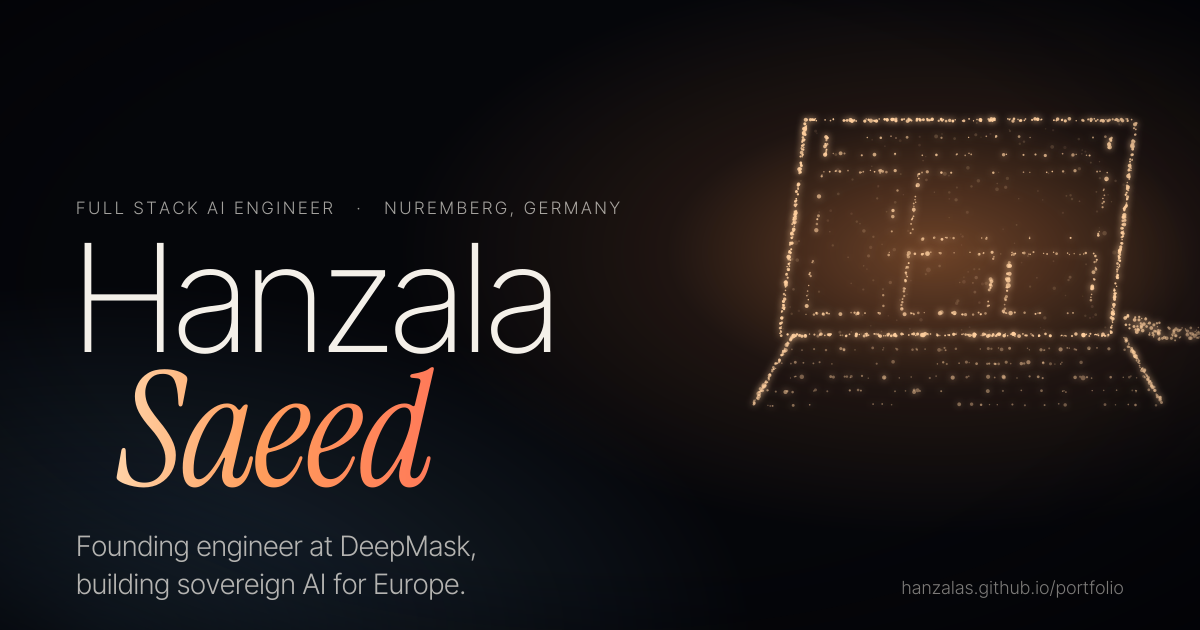
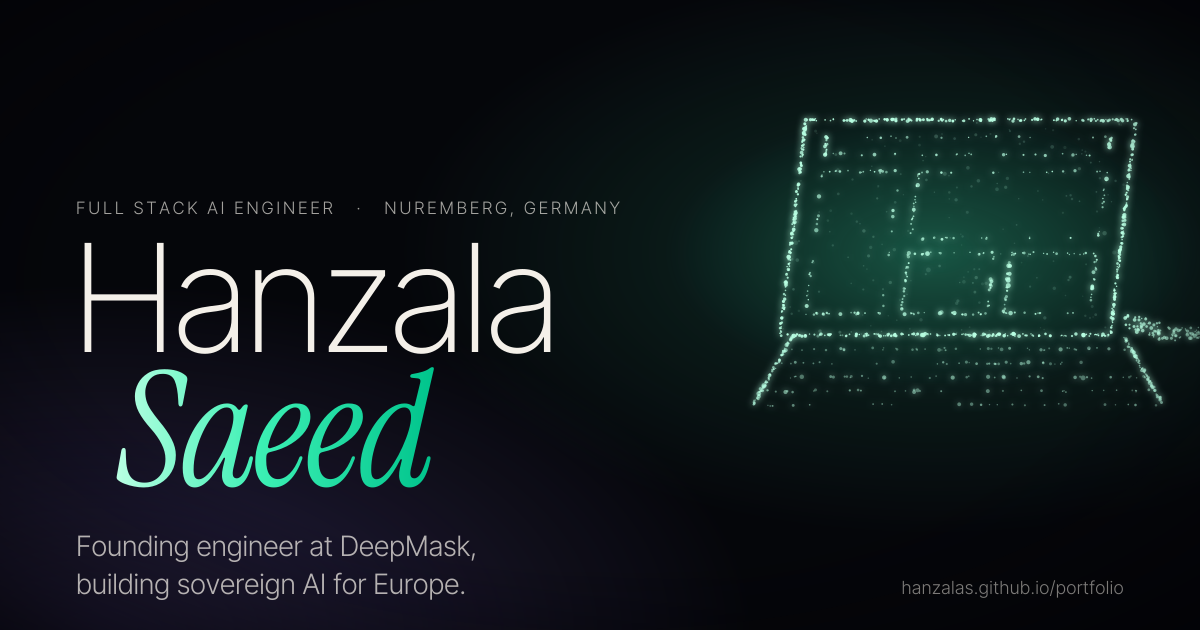
Rebrand to the Aurora palette
Move away from the warm amber-on-dark look to a palette of our own:
mint for the laptop's light and violet for the phone's.

- All colours now come from one palette in cinematic.css (--a-rgb,
  --a2-rgb, --a3, --b-rgb, --b2-rgb); the particle film reads its
  colours from the same variables, so the palette is defined once.
- New favicon and share image in the Aurora palette.
- Fix a self-referencing --a3 variable that broke the name gradient.

Changed region(s): [[0.555, 0.181, 1.0, 0.6333], [0.0925, 0.573, 0.37, 0.7841], [0.9558, 0.6032, 0.9867, 0.6333]]

diff --git a/src/styles/cinematic.css b/src/styles/cinematic.css
@@ -1,5 +1,5 @@
 /* Hanzala Saeed — cinematic site.
-   Dark film grade: amber is the laptop's light, blue is the phone's.
+   Dark film grade "Aurora": mint is the laptop's light, violet is the phone's.
    Everything readable works without JavaScript; motion is an enhancement. */
 
 :root {
@@ -10,10 +10,16 @@
   --faint: rgba(244, 240, 233, 0.5);
   --ghost: rgba(244, 240, 233, 0.16);
   --line: rgba(244, 240, 233, 0.12);
-  --warm: #ff9d5c;
-  --warm-2: #ffd2a6;
-  --cool: #7cc8ff;
-  --cool-2: #b9e3ff;
+  /* Brand palette "Aurora": light A (mint) is the laptop's, light B (violet) is the phone's. */
+  --a-rgb: 60, 240, 180;
+  --a2-rgb: 184, 255, 226;
+  --a3: #00c48c;
+  --b-rgb: 157, 123, 255;
+  --b2-rgb: 210, 196, 255;
+  --warm: rgb(var(--a-rgb));
+  --warm-2: rgb(var(--a2-rgb));
+  --cool: rgb(var(--b-rgb));
+  --cool-2: rgb(var(--b2-rgb));
   --ease: cubic-bezier(0.16, 1, 0.3, 1);
   --sans: 'Inter Tight Variable', ui-sans-serif, system-ui, -apple-system, 'Segoe UI', sans-serif;
   --serif: 'Instrument Serif', Georgia, 'Times New Roman', serif;
@@ -60,7 +66,7 @@ em,
 }
 
 ::selection {
-  background: rgba(255, 157, 92, 0.35);
+  background: rgba(var(--a-rgb), 0.35);
   color: #fff;
 }
 
@@ -121,9 +127,9 @@ em,
   opacity: 0;
   background: radial-gradient(
     closest-side,
-    rgba(var(--bc, 255, 150, 80), 0.55),
-    rgba(var(--bc, 255, 150, 80), 0.16) 42%,
-    rgba(var(--bc, 255, 150, 80), 0) 72%
+    rgba(var(--bc, var(--a-rgb)), 0.55),
+    rgba(var(--bc, var(--a-rgb)), 0.16) 42%,
+    rgba(var(--bc, var(--a-rgb)), 0) 72%
   );
   will-change: transform, opacity;
 }
@@ -165,7 +171,7 @@ em,
   width: 80vmax;
   height: 80vmax;
   border-radius: 50%;
-  background: radial-gradient(closest-side, rgba(255, 150, 80, 0.26), rgba(124, 200, 255, 0.08) 55%, transparent 72%);
+  background: radial-gradient(closest-side, rgba(var(--a-rgb), 0.26), rgba(var(--b-rgb), 0.08) 55%, transparent 72%);
   transition: opacity 1.4s var(--ease);
 }
 
@@ -181,7 +187,7 @@ em,
   line-height: 1;
   color: var(--warm);
   opacity: 0.5;
-  text-shadow: 0 0 60px rgba(255, 157, 92, 0.6);
+  text-shadow: 0 0 60px rgba(var(--a-rgb), 0.6);
 }
 
 html:not(.gl-on) .fb-hello {
@@ -227,7 +233,7 @@ html:not(.gl-on) .fb-hello {
   height: 8px;
   border-radius: 50%;
   background: var(--warm);
-  box-shadow: 0 0 12px 2px rgba(255, 157, 92, 0.8);
+  box-shadow: 0 0 12px 2px rgba(var(--a-rgb), 0.8);
   display: block;
 }
 
@@ -345,8 +351,8 @@ footer {
   width: 6px;
   height: 6px;
   border-radius: 50%;
-  background: #7dffb0;
-  box-shadow: 0 0 10px #7dffb0;
+  background: var(--warm);
+  box-shadow: 0 0 10px var(--warm);
 }
 
 h1 {
@@ -365,7 +371,7 @@ h1 .l2 {
   letter-spacing: -0.025em;
   font-size: 1.06em;
   padding-left: 0.38em;
-  background: linear-gradient(100deg, var(--warm-2) 0%, var(--warm) 45%, #ff7a59 100%);
+  background: linear-gradient(100deg, var(--warm-2) 0%, var(--warm) 45%, var(--a3) 100%);
   -webkit-background-clip: text;
   background-clip: text;
   color: transparent;
@@ -423,7 +429,7 @@ h1 .l2 {
   transform: translateY(-2px);
   border-color: rgba(244, 240, 233, 0.5);
   background: rgba(244, 240, 233, 0.06);
-  box-shadow: 0 14px 40px -14px rgba(255, 157, 92, 0.6);
+  box-shadow: 0 14px 40px -14px rgba(var(--a-rgb), 0.6);
 }
 
 .socials a:hover svg {
@@ -668,12 +674,12 @@ html:not(.gl-on) .hint {
 
 .gl-off.act-1 .fb-glow {
   transform: translate(-18vw, 8vh) scale(0.8);
-  background: radial-gradient(closest-side, rgba(200, 170, 255, 0.2), rgba(124, 200, 255, 0.08) 55%, transparent 72%);
+  background: radial-gradient(closest-side, rgba(var(--b2-rgb), 0.2), rgba(var(--b-rgb), 0.08) 55%, transparent 72%);
 }
 
 .gl-off.act-2 .fb-glow {
   transform: translate(-6vw, 4vh);
-  background: radial-gradient(closest-side, rgba(124, 200, 255, 0.3), rgba(255, 150, 80, 0.06) 55%, transparent 72%);
+  background: radial-gradient(closest-side, rgba(var(--b-rgb), 0.3), rgba(var(--a-rgb), 0.06) 55%, transparent 72%);
 }
 
 /* Without the script: the three acts simply read top to bottom. */
@@ -817,7 +823,7 @@ h2.label {
   isolation: isolate;
   aspect-ratio: 4 / 5;
   border: 1px solid var(--line);
-  box-shadow: 0 50px 120px -50px rgba(255, 140, 70, 0.55), 0 0 0 1px rgba(255, 210, 166, 0.06);
+  box-shadow: 0 50px 120px -50px rgba(var(--a-rgb), 0.55), 0 0 0 1px rgba(var(--a2-rgb), 0.06);
 }
 
 .portrait img {
@@ -837,8 +843,8 @@ h2.label {
   pointer-events: none;
   background:
     linear-gradient(to top, rgba(5, 6, 10, 0.85), rgba(5, 6, 10, 0) 45%),
-    radial-gradient(90% 60% at 85% 10%, rgba(255, 157, 92, 0.22), transparent 60%),
-    radial-gradient(80% 60% at 0% 100%, rgba(124, 200, 255, 0.16), transparent 60%);
+    radial-gradient(90% 60% at 85% 10%, rgba(var(--a-rgb), 0.22), transparent 60%),
+    radial-gradient(80% 60% at 0% 100%, rgba(var(--b-rgb), 0.16), transparent 60%);
   mix-blend-mode: normal;
 }
 
@@ -961,7 +967,7 @@ html:not(.has-js) .beliefs li em {
 .card:hover,
 .card.solve {
   border-color: rgba(244, 240, 233, 0.26);
-  box-shadow: 0 40px 120px -40px var(--sh, rgba(255, 140, 70, 0.45));
+  box-shadow: 0 40px 120px -40px var(--sh, rgba(var(--a-rgb), 0.45));
 }
 
 .card:hover::after {
@@ -969,7 +975,7 @@ html:not(.has-js) .beliefs li em {
 }
 
 .card.cool {
-  --sh: rgba(110, 190, 255, 0.45);
+  --sh: rgba(var(--b-rgb), 0.45);
 }
 
 .card .art {
@@ -986,7 +992,7 @@ html:not(.has-js) .beliefs li em {
   content: '';
   position: absolute;
   inset: -20%;
-  background: radial-gradient(closest-side, var(--ag, rgba(255, 140, 70, 0.2)), transparent 70%);
+  background: radial-gradient(closest-side, var(--ag, rgba(var(--a-rgb), 0.2)), transparent 70%);
   transition: transform 1.2s var(--ease), opacity 1s;
 }
 
@@ -996,7 +1002,7 @@ html:not(.has-js) .beliefs li em {
 }
 
 .card.cool .art {
-  --ag: rgba(90, 170, 255, 0.2);
+  --ag: rgba(var(--b-rgb), 0.2);
 }
 
 .card-body {
@@ -1109,8 +1115,8 @@ html:not(.has-js) .beliefs li em {
   aspect-ratio: 9 / 19;
   border-radius: 30px;
   padding: 7px;
-  background: linear-gradient(160deg, rgba(255, 190, 140, 0.55), rgba(124, 200, 255, 0.35));
-  box-shadow: 0 0 60px -6px var(--pg, rgba(255, 140, 70, 0.45)), 0 30px 80px -30px rgba(0, 0, 0, 0.9);
+  background: linear-gradient(160deg, rgba(var(--a2-rgb), 0.55), rgba(var(--b-rgb), 0.35));
+  box-shadow: 0 0 60px -6px var(--pg, rgba(var(--a-rgb), 0.45)), 0 30px 80px -30px rgba(0, 0, 0, 0.9);
   transform: rotate(var(--tilt, -4deg));
   transition: transform 1s var(--ease), box-shadow 1s var(--ease);
 }
@@ -1121,14 +1127,14 @@ html:not(.has-js) .beliefs li em {
 .work .card:nth-child(5) .phone { --tilt: 4deg; }
 
 .card.cool .phone {
-  --pg: rgba(110, 190, 255, 0.45);
-  background: linear-gradient(160deg, rgba(185, 227, 255, 0.55), rgba(255, 157, 92, 0.3));
+  --pg: rgba(var(--b-rgb), 0.45);
+  background: linear-gradient(160deg, rgba(var(--b2-rgb), 0.55), rgba(var(--a-rgb), 0.3));
 }
 
 .card:hover .phone,
 .card.solve .phone {
   transform: rotate(0deg) translateY(-6px);
-  box-shadow: 0 0 90px 0 var(--pg, rgba(255, 140, 70, 0.6)), 0 30px 80px -30px rgba(0, 0, 0, 0.9);
+  box-shadow: 0 0 90px 0 var(--pg, rgba(var(--a-rgb), 0.6)), 0 30px 80px -30px rgba(0, 0, 0, 0.9);
 }
 
 .screen {
@@ -1141,13 +1147,13 @@ html:not(.has-js) .beliefs li em {
 
 /* line-drawn app screens, glowing in the card's light */
 .glyph {
-  --gc: 255, 157, 92;
+  --gc: var(--a-rgb);
   color: var(--warm-2);
   background: radial-gradient(120% 70% at 50% 38%, rgba(var(--gc), 0.16), #07080d 72%);
 }
 
 .card.cool .glyph {
-  --gc: 124, 200, 255;
+  --gc: var(--b-rgb);
   color: var(--cool-2);
 }
 
@@ -1250,15 +1256,18 @@ html:not(.has-js) .beliefs li em {
 
 .ring-art .st {
   fill: var(--warm-2);
-  filter: drop-shadow(0 0 6px rgba(255, 157, 92, 0.9));
+  filter: drop-shadow(0 0 6px rgba(var(--a-rgb), 0.9));
   transform-box: fill-box;
   transform-origin: center;
   animation: twinkle 3.2s var(--ease) infinite;
 }
 
+.ring-art .s0 { stop-color: var(--warm-2); }
+.ring-art .s1 { stop-color: var(--cool); }
+
 .ring-art .orbit {
   fill: none;
-  stroke: rgba(255, 210, 166, 0.14);
+  stroke: rgba(var(--a2-rgb), 0.14);
   stroke-width: 1;
 }
 
@@ -1266,7 +1275,7 @@ html:not(.has-js) .beliefs li em {
   fill: none;
   stroke: url(#dmg);
   stroke-width: 1.5;
-  filter: drop-shadow(0 0 10px rgba(124, 200, 255, 0.6));
+  filter: drop-shadow(0 0 10px rgba(var(--b-rgb), 0.6));
 }
 
 .ring-art .lock {
@@ -1275,7 +1284,7 @@ html:not(.has-js) .beliefs li em {
   stroke-width: 2;
   stroke-linecap: round;
   stroke-linejoin: round;
-  filter: drop-shadow(0 0 8px rgba(124, 200, 255, 0.8));
+  filter: drop-shadow(0 0 8px rgba(var(--b-rgb), 0.8));
 }
 
 /* stagger the twelve lights (children 3–14 of the spinning group) */
@@ -1410,9 +1419,9 @@ html:not(.has-js) .beliefs li em {
   position: absolute;
   inset: 0;
   border-radius: 10px;
-  border: 1px solid rgba(255, 178, 120, 0.5);
-  background: linear-gradient(150deg, rgba(255, 157, 92, 0.2), rgba(255, 157, 92, 0.03));
-  box-shadow: 0 0 40px rgba(255, 140, 70, 0.14), inset 0 0 24px rgba(255, 157, 92, 0.08);
+  border: 1px solid rgba(var(--a2-rgb), 0.5);
+  background: linear-gradient(150deg, rgba(var(--a-rgb), 0.2), rgba(var(--a-rgb), 0.03));
+  box-shadow: 0 0 40px rgba(var(--a-rgb), 0.14), inset 0 0 24px rgba(var(--a-rgb), 0.08);
   transition: transform 1.1s var(--ease), opacity 1.1s var(--ease);
 }
 
@@ -1426,7 +1435,7 @@ html:not(.has-js) .beliefs li em {
   height: 9%;
   margin: 8% 9% 0;
   border-radius: 4px;
-  background: rgba(255, 214, 180, 0.6);
+  background: rgba(var(--a2-rgb), 0.6);
   transition: transform 1.1s var(--ease), width 1.1s var(--ease);
 }
 
@@ -1498,7 +1507,7 @@ html:not(.has-js) .beliefs li em {
   width: 1px;
   height: calc(var(--p) * (100% - 0.6em));
   background: linear-gradient(var(--warm), var(--cool));
-  box-shadow: 0 0 12px rgba(255, 157, 92, 0.7);
+  box-shadow: 0 0 12px rgba(var(--a-rgb), 0.7);
 }
 
 .route li {
@@ -1534,13 +1543,13 @@ html:not(.has-js) .beliefs li em {
 .route li.on .node {
   background: var(--warm);
   border-color: var(--warm);
-  box-shadow: 0 0 0 5px rgba(255, 157, 92, 0.14), 0 0 18px rgba(255, 157, 92, 0.9);
+  box-shadow: 0 0 0 5px rgba(var(--a-rgb), 0.14), 0 0 18px rgba(var(--a-rgb), 0.9);
 }
 
 .route li.now.on .node {
   background: var(--cool);
   border-color: var(--cool);
-  box-shadow: 0 0 0 5px rgba(124, 200, 255, 0.14), 0 0 18px rgba(124, 200, 255, 0.9);
+  box-shadow: 0 0 0 5px rgba(var(--b-rgb), 0.14), 0 0 18px rgba(var(--b-rgb), 0.9);
 }
 
 .place {

diff --git a/src/scripts/film.js b/src/scripts/film.js
@@ -33,9 +33,23 @@ export function initFilm({ canvas, film, about, contact, reduce, coarse, onLost 
   }
   if (!renderer || !renderer.getContext()) return false;
 
+  // The brand palette lives in CSS; the film reads it so colours stay in one place.
+  const css = getComputedStyle(document.documentElement);
+  const rgb = (name, fallback) => {
+    const m = css.getPropertyValue(name).match(/\d+(\.\d+)?/g);
+    return m && m.length >= 3 ? m.slice(0, 3).map(Number) : fallback;
+  };
+  const A = rgb('--a-rgb', [60, 240, 180]);
+  const A2 = rgb('--a2-rgb', [184, 255, 226]);
+  const B = rgb('--b-rgb', [157, 123, 255]);
+  const B2 = rgb('--b2-rgb', [210, 196, 255]);
+  const v3 = (c) => new Vector3(c[0] / 255, c[1] / 255, c[2] / 255);
+  const mixc = (c, d, t) => c.map((x, i) => Math.round(x + (d[i] - x) * t));
+  const hot = mixc(A2, [255, 255, 255], 0.75);
+
   const DPR = Math.min(window.devicePixelRatio || 1, 1.75);
   renderer.setPixelRatio(DPR);
-  renderer.setClearColor(0x05060a, 1);
+  renderer.setClearColor(0x05060a, 1); // matches --bg
 
   // Fewer particles on phones and on machines with little memory.
   const lowMem = typeof navigator.deviceMemory === 'number' && navigator.deviceMemory <= 4;
@@ -390,6 +404,11 @@ export function initFilm({ canvas, film, about, contact, reduce, coarse, onLost 
     uPulseT: { value: -1 },
     uReduced: { value: reduce ? 1 : 0 },
     uAlpha: { value: 1 },
+    uWarm: { value: v3(A) },
+    uWarm2: { value: v3(A2) },
+    uCool: { value: v3(B) },
+    uHot: { value: v3(hot) },
+    uHand: { value: v3(mixc(A, A2, 0.5)) },
   };
 
   const vert = /* glsl */ `
@@ -399,11 +418,12 @@ export function initFilm({ canvas, film, about, contact, reduce, coarse, onLost 
     uniform float uScA; uniform float uScB; uniform vec3 uOffA; uniform vec3 uOffB;
     uniform mat3 uRot; uniform float uPx; uniform vec3 uMouse; uniform float uMouseStr;
     uniform vec3 uPulseO; uniform float uPulseT; uniform float uReduced; uniform float uAlpha;
+    uniform vec3 uWarm; uniform vec3 uWarm2; uniform vec3 uCool; uniform vec3 uHot; uniform vec3 uHand;
     varying vec3 vColor; varying float vAlpha;
-    const vec3 WARM = vec3(1.0, 0.55, 0.25);
-    const vec3 COOL = vec3(0.40, 0.74, 1.0);
-    const vec3 HOT = vec3(1.0, 0.95, 0.88);
-    const vec3 HAND = vec3(1.0, 0.66, 0.46);
+    #define WARM uWarm
+    #define COOL uCool
+    #define HOT uHot
+    #define HAND uHand
     vec3 rawShape(float s){
       if (s < 0.5) return position;
       if (s < 1.5) return p1;
@@ -434,7 +454,7 @@ export function initFilm({ canvas, film, about, contact, reduce, coarse, onLost 
         pos = q + vec3(sin(t * 0.08 + q.y * 0.35) * 0.5, cos(t * 0.06 + q.x * 0.3) * 0.35, 0.0);
         tint = mix(WARM, COOL, step(0.45, aRnd.y));
       }
-      else { pos = q; tint = mix(WARM, vec3(1.0, 0.8, 0.62), aRnd.y); }
+      else { pos = q; tint = mix(WARM, uWarm2, aRnd.y); }
     }
     void main(){
       float t = uTime;
@@ -649,11 +669,11 @@ export function initFilm({ canvas, film, about, contact, reduce, coarse, onLost 
   /* ---- bloom: a soft spill of light behind the current shape ---- */
   const bloom = document.getElementById('bloom');
   const BL = [
-    { c: [255, 150, 80], o: 0.62, s: 1.0 },
-    { c: [190, 170, 255], o: 0.16, s: 1.5 },
-    { c: [110, 190, 255], o: 0.5, s: 0.85 },
-    { c: [120, 150, 255], o: 0.05, s: 1.6 },
-    { c: [255, 165, 105], o: 0.2, s: 1.3 },
+    { c: A, o: 0.62, s: 1.0 },
+    { c: mixc(A, B, 0.5), o: 0.16, s: 1.5 },
+    { c: B, o: 0.5, s: 0.85 },
+    { c: mixc(B, B2, 0.3), o: 0.05, s: 1.6 },
+    { c: mixc(A, A2, 0.3), o: 0.2, s: 1.3 },
   ];
   const anchors = [lapAnchor, [0, 0, 0], phoneAnchor, [0, 0, 0], [0, 0, 0]];
   const aA = new Vector3();
